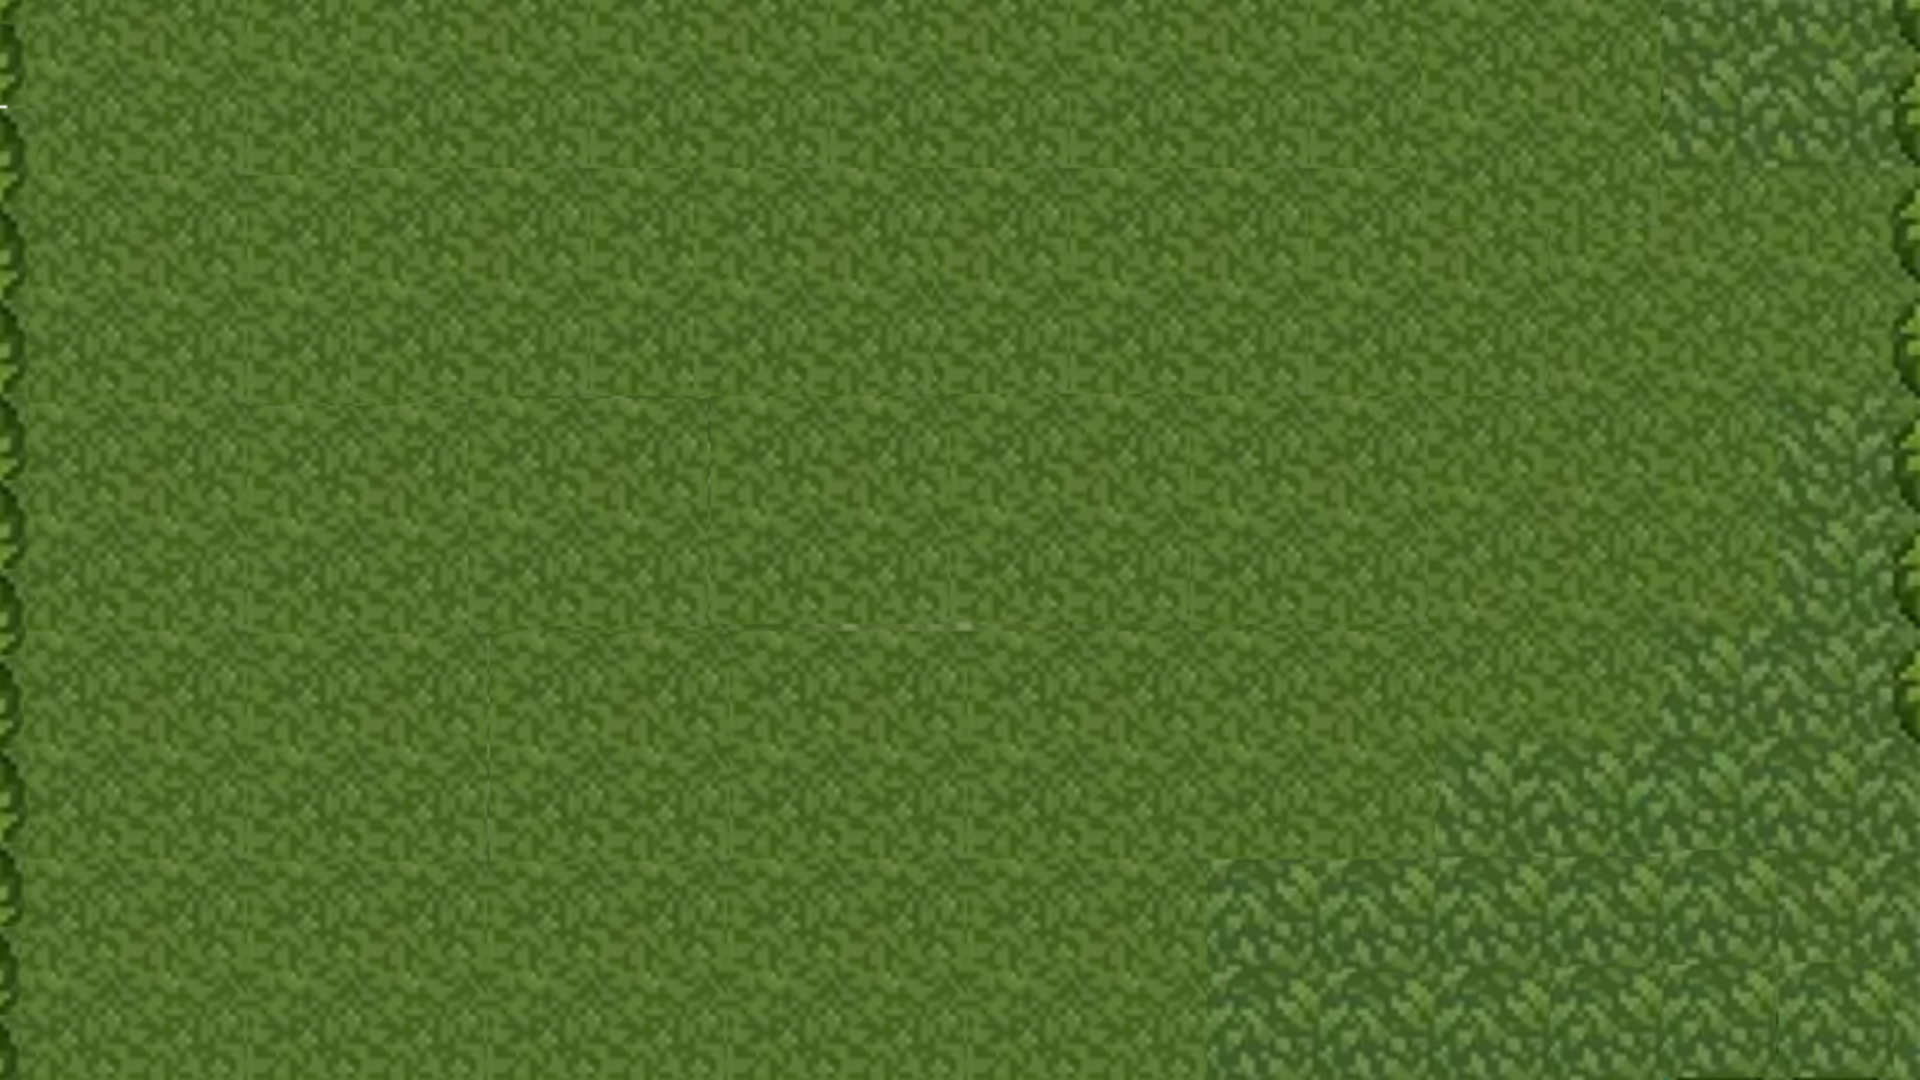
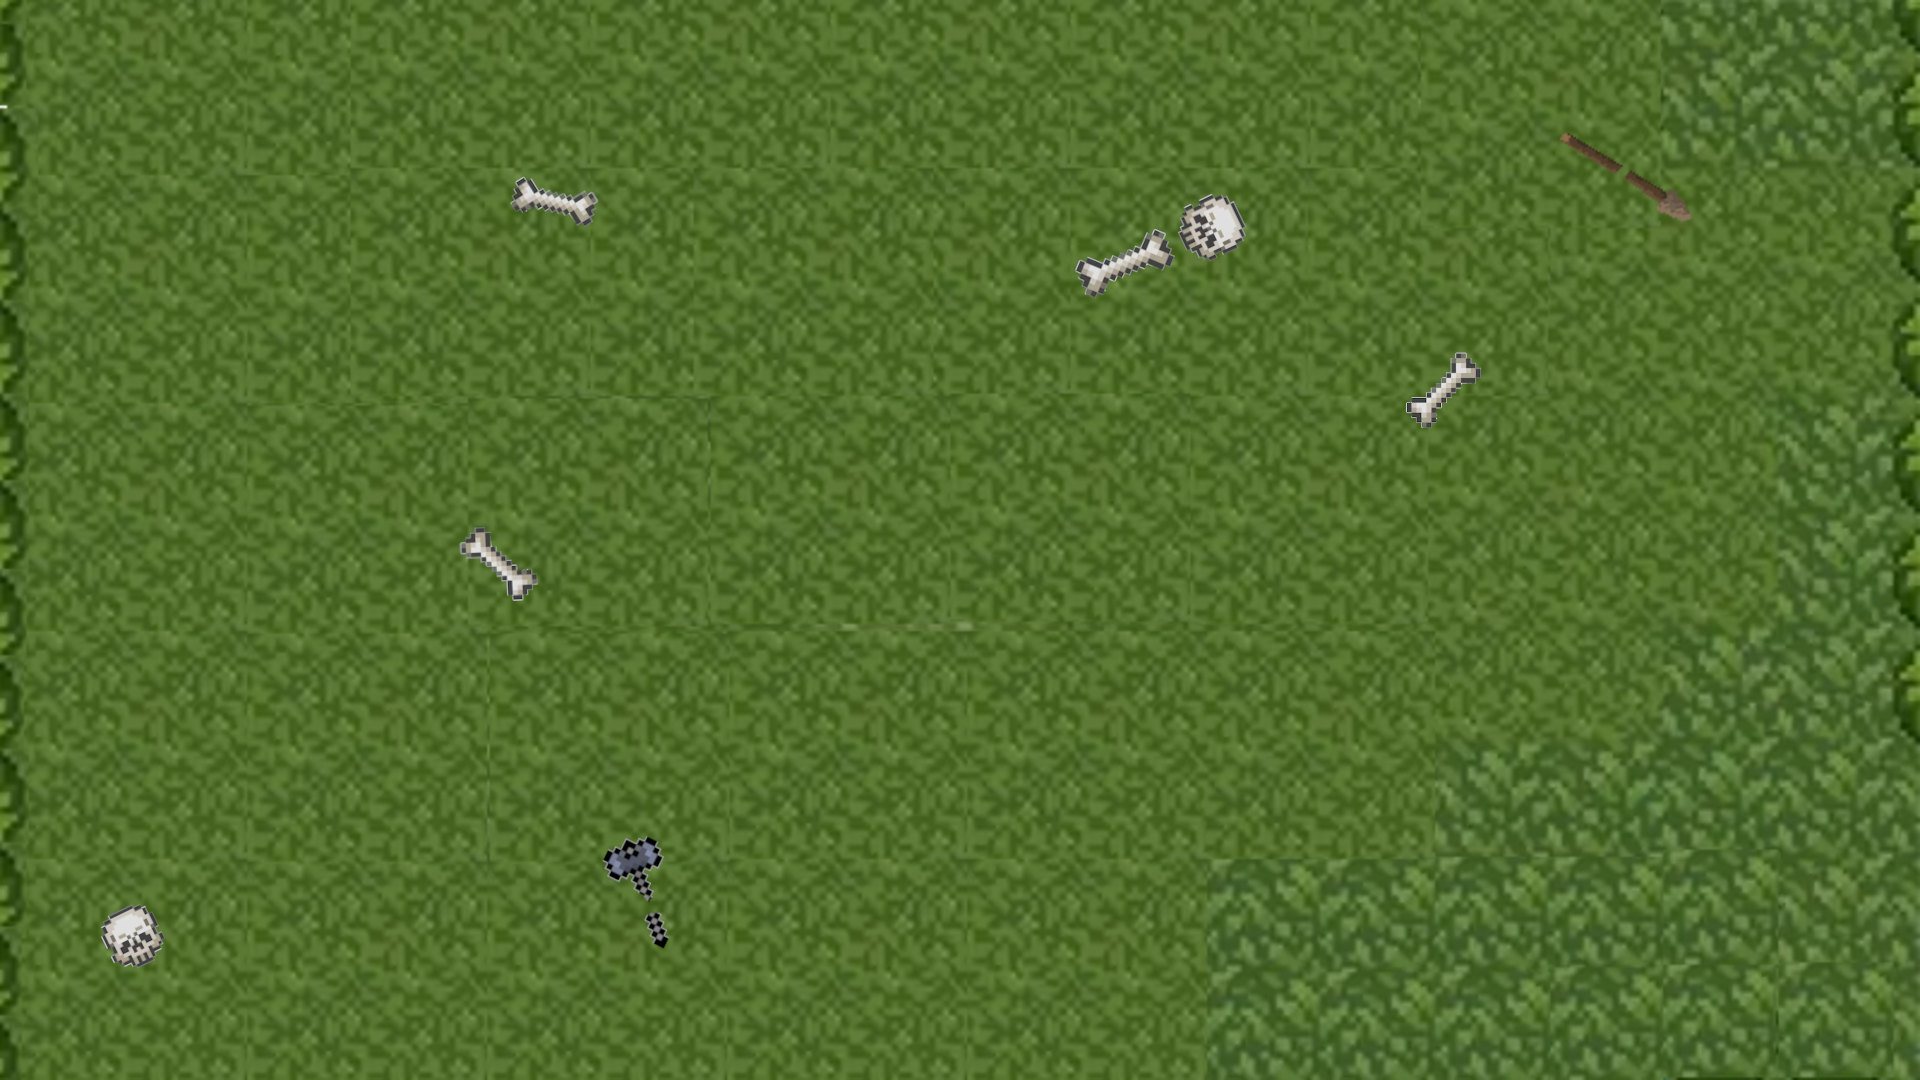
[FEAT] upgrade battlefield and point of spawn player + wizzard

diff --git a/src/setup/game_setup.c b/src/setup/game_setup.c
@@ -7,6 +7,20 @@
 
 #include "my.h"
 
+static int check_setup_map(rpg_t *rpg)
+{
+    if (setup_map(rpg->game->map, rpg->window, rpg->setting->sound_game) == KO
+        || select_charac(rpg->game, rpg->window) == KO ||
+        pause_menu_setup(rpg->game, rpg->window) == KO ||
+        setup_house(rpg->game->map, rpg->window) == KO ||
+        set_up_battlefield(rpg->window,
+        rpg->game->map, rpg->setting->sound_game) == KO ||
+        set_up_battlefield(rpg->window, rpg->game->map,
+        rpg->setting->sound_game) == KO)
+        return KO;
+    return OK;
+}
+
 int game_setup(rpg_t *rpg)
 {
     rpg->game->player_move = (sfVector2f) {0.0, 0.0};
@@ -19,11 +33,7 @@ int game_setup(rpg_t *rpg)
     if (!rpg->game->player || !rpg->game->map || !rpg->game->select ||
         !rpg->game->player->sprites)
         return KO;
-    if (setup_map(rpg->game->map, rpg->window, rpg->setting->sound_game) == KO
-        || select_charac(rpg->game, rpg->window) == KO ||
-        pause_menu_setup(rpg->game, rpg->window) == KO ||
-        setup_house(rpg->game->map, rpg->window) == KO ||
-        set_up_battlefield(rpg->game->map, rpg->setting->sound_game) == KO)
+    if (check_setup_map(rpg) == KO)
         return KO;
     set_volume_music(rpg);
     return OK;

diff --git a/src/setup/game/map_setup.c b/src/setup/game/map_setup.c
@@ -31,14 +31,24 @@ int setup_house(map_t *map, sfRenderWindow *window)
     sfSprite_setScale(map->house[1]->house, (sfVector2f){1.56, 1.56});
 }
 
-int set_up_battlefield(map_t *map, float volume)
+int set_up_battlefield(sfRenderWindow *window, map_t *map, float volume)
 {
     map->battle_text = sfTexture_createFromFile(BATTLE_MAP, NULL);
-    if (!map->battle_text)
+    map->entities = malloc(sizeof(entities_bf_t));
+    map->entities->wizzard_rect = (sfIntRect) {0, 202, 204, 202};
+    map->entities->wizz_clock = sfClock_create();
+    if (!map->battle_text || !map->entities)
         return KO;
     sfMusic_setVolume(map->battle_music, volume);
     map->battle_spr = create_button(map->battle_text,
-    (sfVector2f) {1.0, 1.0}, (sfVector2f) {0.0, 0.0});
+    (sfVector2f) {1.0, 1.0}, get_resize(window, 0.0, 0.0));
+    map->entities->wizzard_text = sfTexture_createFromFile(WIZZARD, NULL);
+    if (!map->entities->wizzard_text)
+        return KO;
+    map->entities->wizzard_spr = create_button(map->entities->wizzard_text,
+    (sfVector2f) {1.5, 1.5}, get_resize(window, 1700.0, 840.0));
+    sfSprite_setTextureRect(map->entities->wizzard_spr,
+    map->entities->wizzard_rect);
     return OK;
 }
 

diff --git a/src/draw/draw_game.c b/src/draw/draw_game.c
@@ -44,7 +44,20 @@ static void draw_alchemist(sfRenderWindow *window, game_t *game)
 
 static void draw_battlefield(sfRenderWindow *window, game_t *game)
 {
+    sfTime time = sfClock_getElapsedTime(game->map->entities->wizz_clock);
+
     sfRenderWindow_drawSprite(window, game->map->battle_spr, NULL);
+    if (time.microseconds >= 300000) {
+        game->map->entities->wizzard_rect.left += 204;
+        if (game->map->entities->wizzard_rect.left >= 408)
+            game->map->entities->wizzard_rect.left = 0;
+        sfSprite_setTextureRect(game->map->entities->wizzard_spr,
+        game->map->entities->wizzard_rect);
+        sfClock_restart(game->map->entities->wizz_clock);
+    }
+    sfRenderWindow_drawSprite(window, game->map->entities->wizzard_spr, NULL);
+    sfRenderWindow_drawSprite(window,
+    game->player->sprites->player, NULL);
 }
 
 static void draw_story_game(sfRenderWindow *window, game_t *game)

diff --git a/include/map.h b/include/map.h
@@ -20,6 +20,7 @@
     #define PARTICLE "assets/map/portal_particles.png"
     #define FLAG "assets/map/flag_portal.png"
     #define BATTLE_MAP "assets/map/map_battelfiel.png"
+    #define WIZZARD "assets/sprite/wizard_bf.png"
     #define NB_PARTICLE 15
 
     #include <SFML/Graphics.h>
@@ -63,6 +64,13 @@ typedef struct house_s {
     sfMusic *house_music;
 } house_t;
 
+typedef struct entities_bf_s {
+    sfTexture *wizzard_text;
+    sfSprite *wizzard_spr;
+    sfClock *wizz_clock;
+    sfIntRect wizzard_rect;
+} entities_bf_t;
+
 typedef struct map_s {
     choice_map_t choice_map;
 
@@ -79,6 +87,7 @@ typedef struct map_s {
     house_t **house;
     particle_t particle;
     flag_t flag;
+    entities_bf_t *entities;
 
     sfTexture *texture_ground;
     sfSprite *sprite_ground;

diff --git a/src/event/game/game_event.c b/src/event/game/game_event.c
@@ -63,6 +63,10 @@ static void show_flag(rpg_t *rpg, sfEvent event)
             sfView_setCenter(rpg->game->map->view,
                 get_resize(rpg->window, 960, 540));
             sfRenderWindow_setView(rpg->window, rpg->game->map->view);
+            sfSprite_setPosition(rpg->game->player->sprites->player,
+            (sfVector2f) {1685.0, 940});
+            sfSprite_setScale(rpg->game->player->sprites->player,
+            (sfVector2f) {2.5, 2.5});
         }
         rpg->game->map->flag.is_flag = true;
     }

diff --git a/include/proto.h b/include/proto.h
@@ -56,7 +56,7 @@ int setup_flag(map_t *map, sfRenderWindow *window);
 int setup_particles(map_t *map);
 int setup_map(map_t *map, sfRenderWindow *window, float volume);
 int setup_house(map_t *map, sfRenderWindow *window);
-int set_up_battlefield(map_t *map, float volume);
+int set_up_battlefield(sfRenderWindow *window, map_t *map, float volume);
 void change_view(game_t *game, sfRenderWindow *window);
 int select_charac(game_t *game, sfRenderWindow *window);
 int pause_menu_setup(game_t *game, sfRenderWindow *window);
